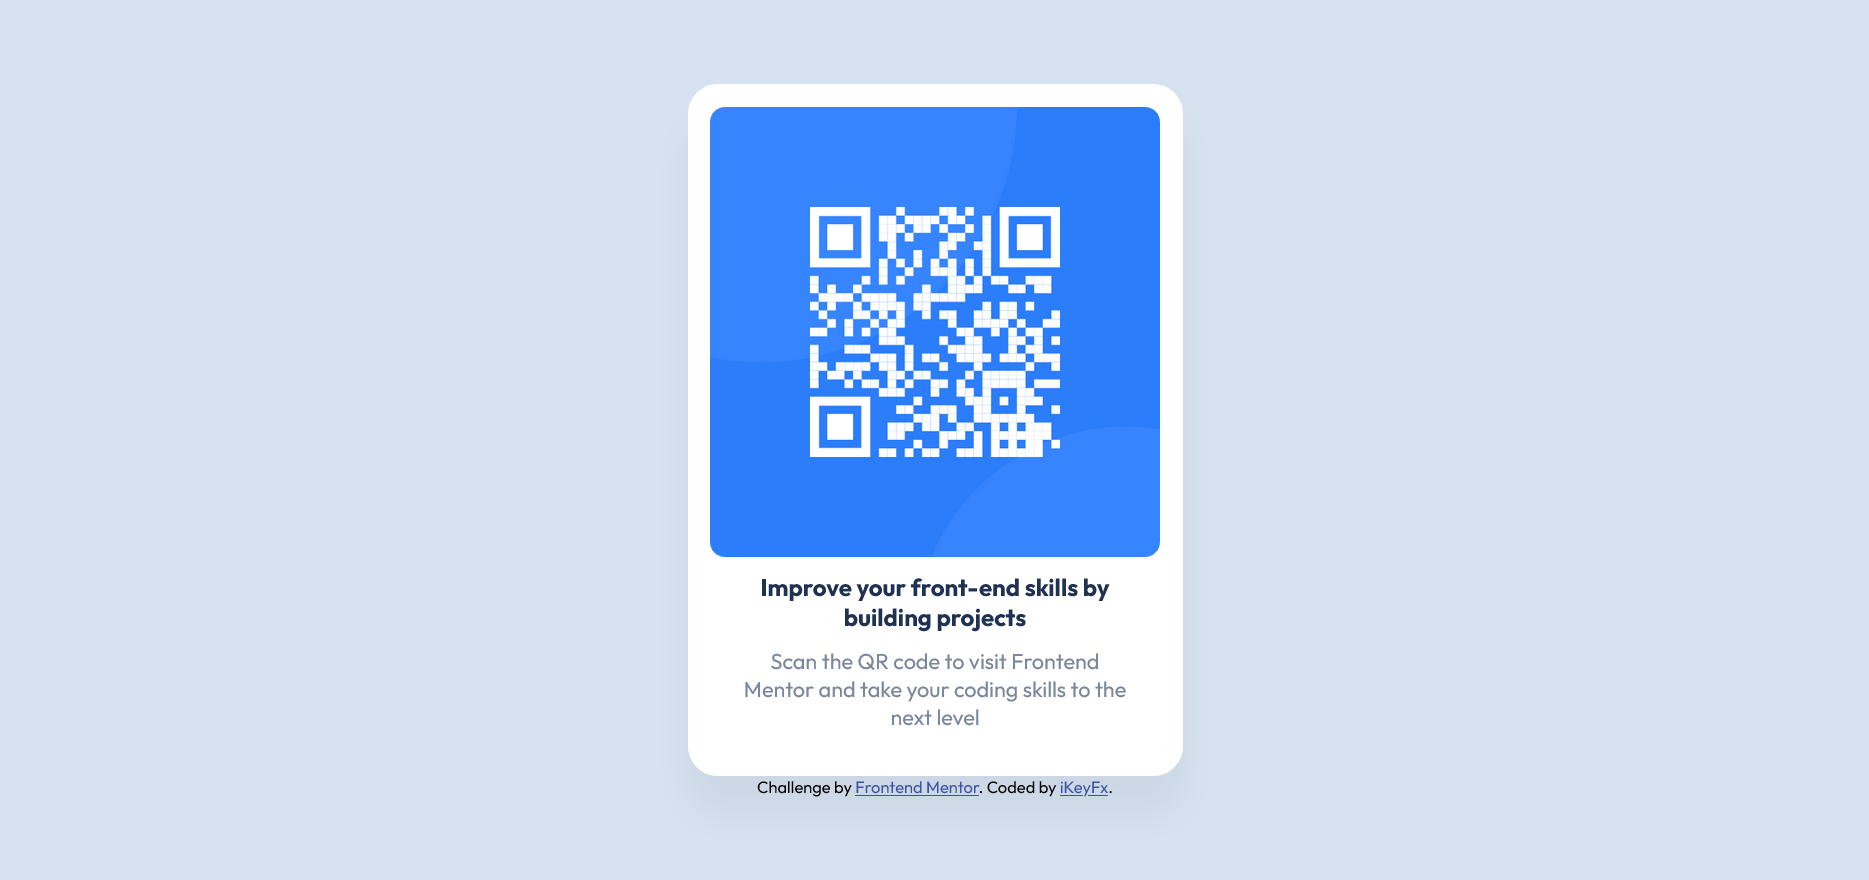
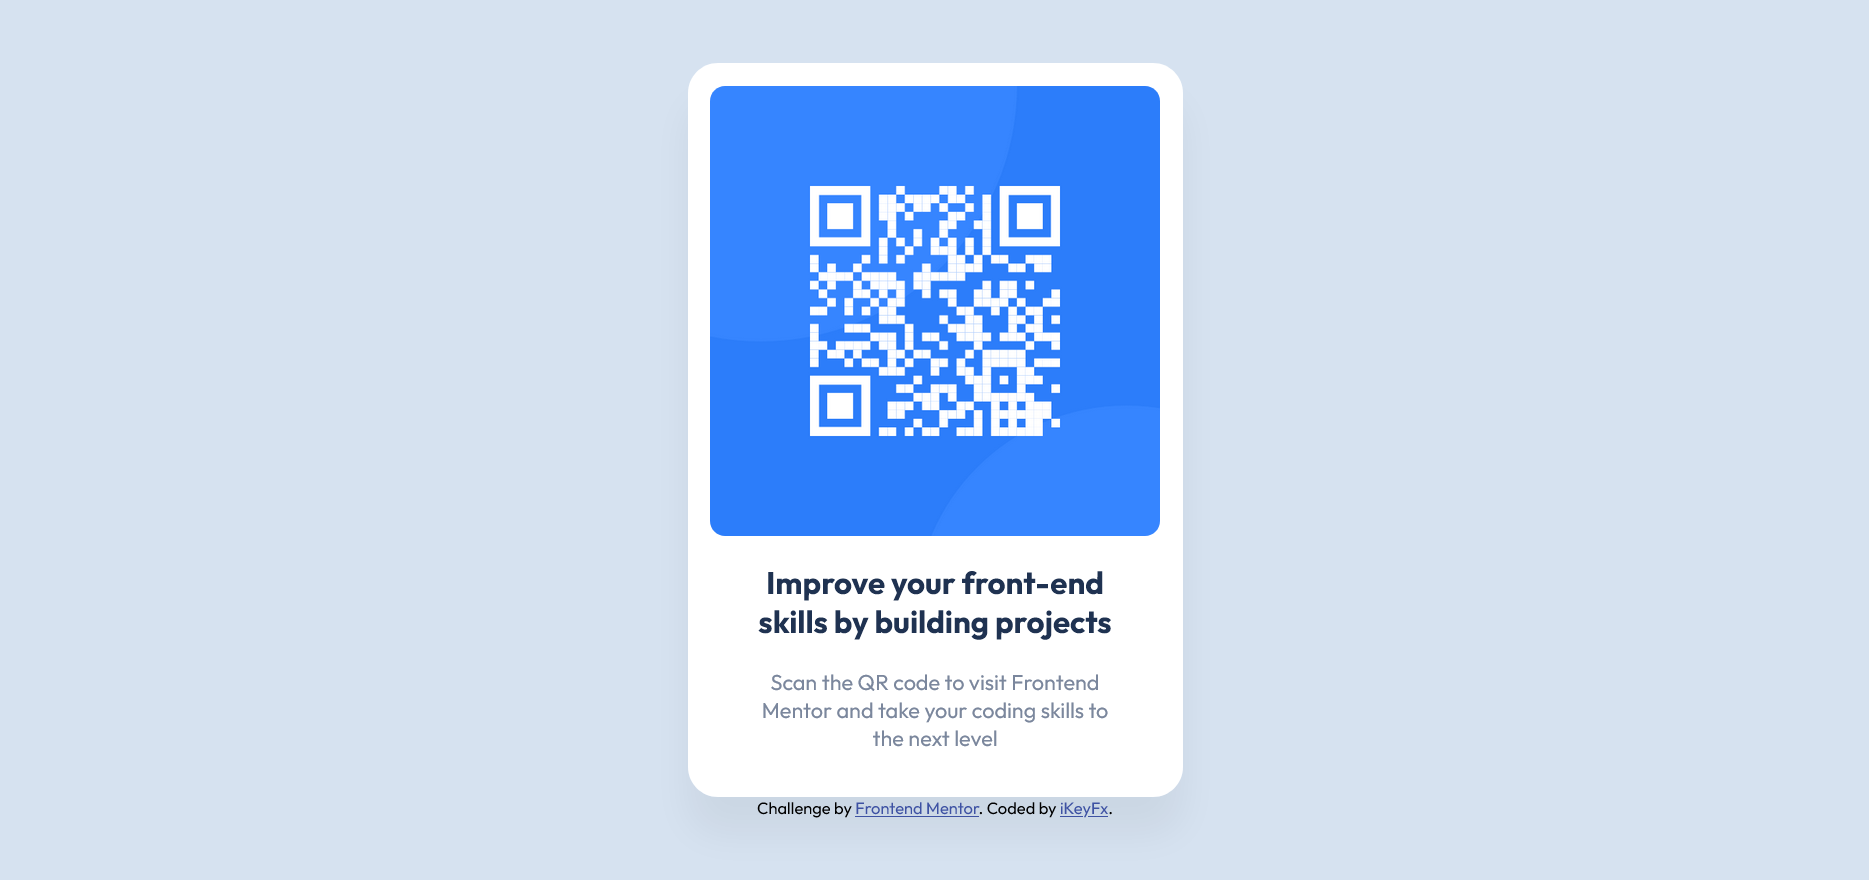
New screenshot added

Changed region(s): [[0.3724, 0.583, 0.6517, 0.9511], [0.4345, 0.1841, 0.5896, 0.5216], [0.3724, 0.0614, 0.6517, 0.1227]]

diff --git a/styles.css b/styles.css
@@ -27,17 +27,17 @@ img {
 }
 
 h1 {
-  font-size: 1rem;
+  font-size: 1.3rem;
   font-weight: 700;
   color: hsl(218, 44%, 22%);
   text-align: center;
-  margin: 0 1rem;
+  margin: 0.5rem 1rem;
 }
 
 p {
   color: hsl(220, 15%, 55%);
   text-align: center;
-  padding: 10px 20px;
+  padding: 10px 30px;
   margin: 0;
   font-size: 0.9rem;
 }
